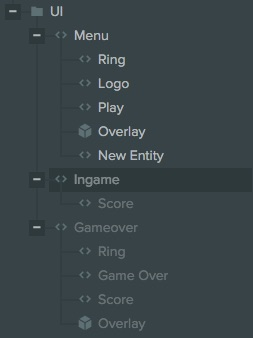
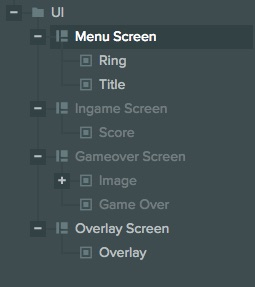
Update Keepy Up tutorial

diff --git a/content/en/tutorials/keepyup-part-six.md b/content/en/tutorials/keepyup-part-six.md
@@ -13,19 +13,21 @@ thumb: https://s3-eu-west-1.amazonaws.com/images.playcanvas.com/projects/12/4060
 
 The user interface of a game is the first thing you see and often it's the last thing people think about when making a game. But a good user interface will not only give your game a great style. It can activaly affect the number of people who can play your game.
 
-There are several ways to build a user interface in a PlayCanvas application. You can use HTML and CSS assets or you can use WebGL geometry rendered in your main scene. We're going to use the second method. Using the [Sprite library][6] and the [Font library][7] that are available from the PlayCanvas Github pages.
+User Interfaces are built in PlayCanvas using the [Screen Component][7] and the [Element Component][8]. There is more details in the [user manual][6]
 
 ### User Interface Entities
 
 ![Hierarchy][9]
 
-We have divided our user interface up into the three game states: Menu, In Game and Game Over. Each state has an parent Entity that contains the graphics for that interface screen. There is also a script for each interface screen which handles the user interaction and any other game events.
+We have divided our user interface up into the three game states: Menu, In Game and Game Over. Each state has an Screen Entity which is activated when the state is entered. We also have a Screen especially for the overlay. Because the overlay displays underneath the ball in the menu, we use a 3D Screen component to render the overlay in world space behind the ball.
 
-### Sprite Setup
+### Images and Text
 
-![Sprites][10]
+![Image Element][12]
 
-To add a script we have add `sprite.js` from the Sprite library above to our project and we're adding script component. The Sprite code exposes attributes which we use to render a sprite in 2D in our scene. The Sprite script attributes are documented on the [Github page][6]
+Images and Text are added to the user interface using the Element Component. This Component can display images in the form of a texture asset or text in the form a font asset. 
+
+![Image Attriubtes][13]
 
 ### User Interface script
 
@@ -34,38 +36,42 @@ Let's take a look at the script for the main menu.
 ```javascript
 var UiMenu = pc.createScript('uiMenu');
 
+UiMenu.attributes.add("overlay", {type: "entity"});
+
 // initialize code called once per entity
 UiMenu.prototype.initialize = function() {
-    this.on('enable', this.onEnable, this);
+    this.on('enable', this.onEnable, this);    
     this.on('disable', this.onDisable, this);
-
+    
     this.onEnable();
 };
 
 UiMenu.prototype.onEnable = function () {
-    // Listen for clicks on the play button
-    this.app.mouse.on("mouseup", this.start, this);
-    if (this.app.touch) {
-        this.app.touch.on("touchend", this.start, this);
+    // Listen for clicks on the background    
+    
+    this.overlay.enabled = true;
+    this.overlay.element.on("click", this.start, this);
+    
+    if (this.ball) {
+        this.ball.model.meshInstances[0].material.depthTest = false;
     }
 };
 
 UiMenu.prototype.onDisable = function () {
+    this.overlay.enabled = false;
     // Stop listening to events
-    this.app.mouse.off("mouseup", this.start, this);
-    if (this.app.touch) {
-        this.app.touch.off("touchend", this.start, this);
-    }
+    this.overlay.element.off("click", this.start, this);
 };
 
 UiMenu.prototype.start = function (e) {
     this.app.fire("ui:start");
     // prevent touch and mouse events
-    e.event.preventDefault();
+    e.stopPropagation();
 };
 ```
+First we have set up an attribute with a reference to the overlay element. The overlay element is a full screen element which tints the screen green. We also use this to detect input as we only care about the user clicking on the full screen.
 
-When the Entity is enabled we start listening for mouse and touch events, when the Entity is disabled we stop listening to the events. When an event is triggered we fire a "ui:start" event which the main game script is listening for and that triggers a change of game state.
+When the Entity is enabled we display the full screen overlay by enabling it and then we start listening for the click event. When the Entity is disabled we stop listening for the event and we hide the overlay. When an event is triggered we fire a "ui:start" event which the main game script is listening for and that triggers a change of game state.
 
 We repeat similar behaviour in the other two UI scripts where we listen for game events and fire ui events.
 
@@ -78,9 +84,12 @@ Congratulations on reaching the end of the series! We hope you've learn a lot ab
 [3]: /tutorials/beginner/keepyup-part-three
 [4]: /tutorials/beginner/keepyup-part-four
 [5]: /tutorials/beginner/keepyup-part-five
-[6]: https://github.com/playcanvas/sprites
-[7]: https://github.com/playcanvas/fonts
-[8]: http://forum.playcanvas.com
+[6]: /user-manual/user-interface/
+[7]: /user-manual/packs/components/screen/
+[8]: /user-manual/packs/components/element/
 [9]: /images/tutorials/beginner/keepyup-part-six/ui-hierarchy.jpg
 [10]: /images/tutorials/beginner/keepyup-part-six/sprite-setup.jpg
 [11]: https://playcanvas.com/project/406050
+[12]: /images/tutorials/beginner/keepyup-part-six/image-element.jpg
+[13]: /images/tutorials/beginner/keepyup-part-six/element-attr.jpg
+[14]: http://forum.playcanvas.com

diff --git a/content/en/tutorials/keepyup-part-four.md b/content/en/tutorials/keepyup-part-four.md
@@ -226,7 +226,7 @@ Finally, for a nice effect we add rotate the ball by the angular speed value usi
 
 You may remember from [Part 2][2] that the `input.js` script checked to see if an input has hit the ball and if so it calls the `tap()` method. The `tap()` method defined above applies a direct change to the velocity and the angular speed of the ball. We use a couple of our script attributes `this.speedMult` and `this.angMult` to multiple the new velocity and angular speed to match our expectations of the gameplay.
 
-We also use the tap method to trigger a particle dust cloud at the point of impact and play a sound effect. We'll talk about particle and sounds in [Part 4][4].
+We also use the tap method to trigger a particle dust cloud at the point of impact and play a sound effect. We'll talk about particle and sounds in [Part 5][4].
 
 ## Summary
 
@@ -236,6 +236,6 @@ The ball script runs a simply physical simulation to make the ball fall under gr
 [1]: /tutorials/beginner/keepyup-part-one
 [2]: /tutorials/beginner/keepyup-part-two
 [3]: /tutorials/beginner/keepyup-part-three
-[4]: /tutorials/beginner/keepyup-part-four
+[4]: /tutorials/beginner/keepyup-part-five
 [5]: /images/tutorials/beginner/keepyup-part-four/ball-script-attributes.jpg
 [6]: https://playcanvas.com/project/406050
